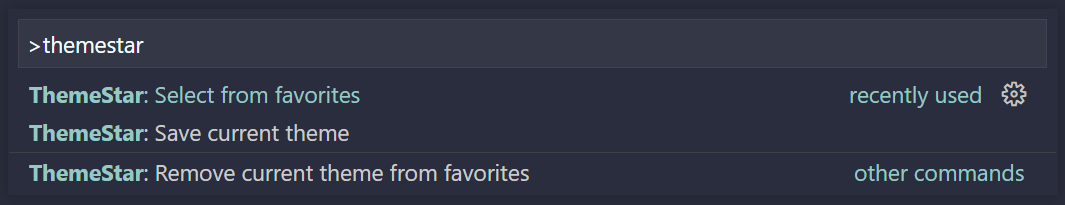
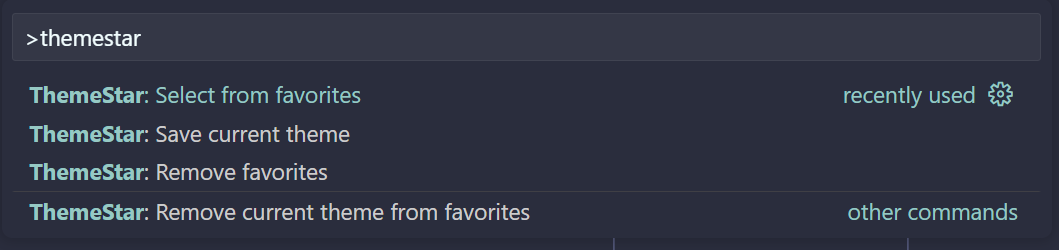
docs: updated readme, changelog

diff --git a/README.md b/README.md
@@ -12,7 +12,8 @@ shortlist to switch more easily.
 Adds the following commands to the Command Palette:
 
 - ThemeStar: Save current theme
-- ThemeStar: Remove current theme from favorites
 - ThemeStar: Select from favorites
+- ThemeStar: Remove current theme from favorites
+- ThemeStar: Remove favorites
 
 ![command palette](docs/palette.png)

diff --git a/CHANGELOG.md b/CHANGELOG.md
@@ -2,6 +2,12 @@
 
 All notable changes to the ThemeStar extension will be documented in this file.
 
+## [1.1.0] - 2023-05-21
+
+- Show favorite list with separated light & dark themes
+- Pre-select the active theme in the list
+- New command to remove multiple favorites at once
+
 ## [1.0.0] - 2022-08-14
 
 - Initial release
